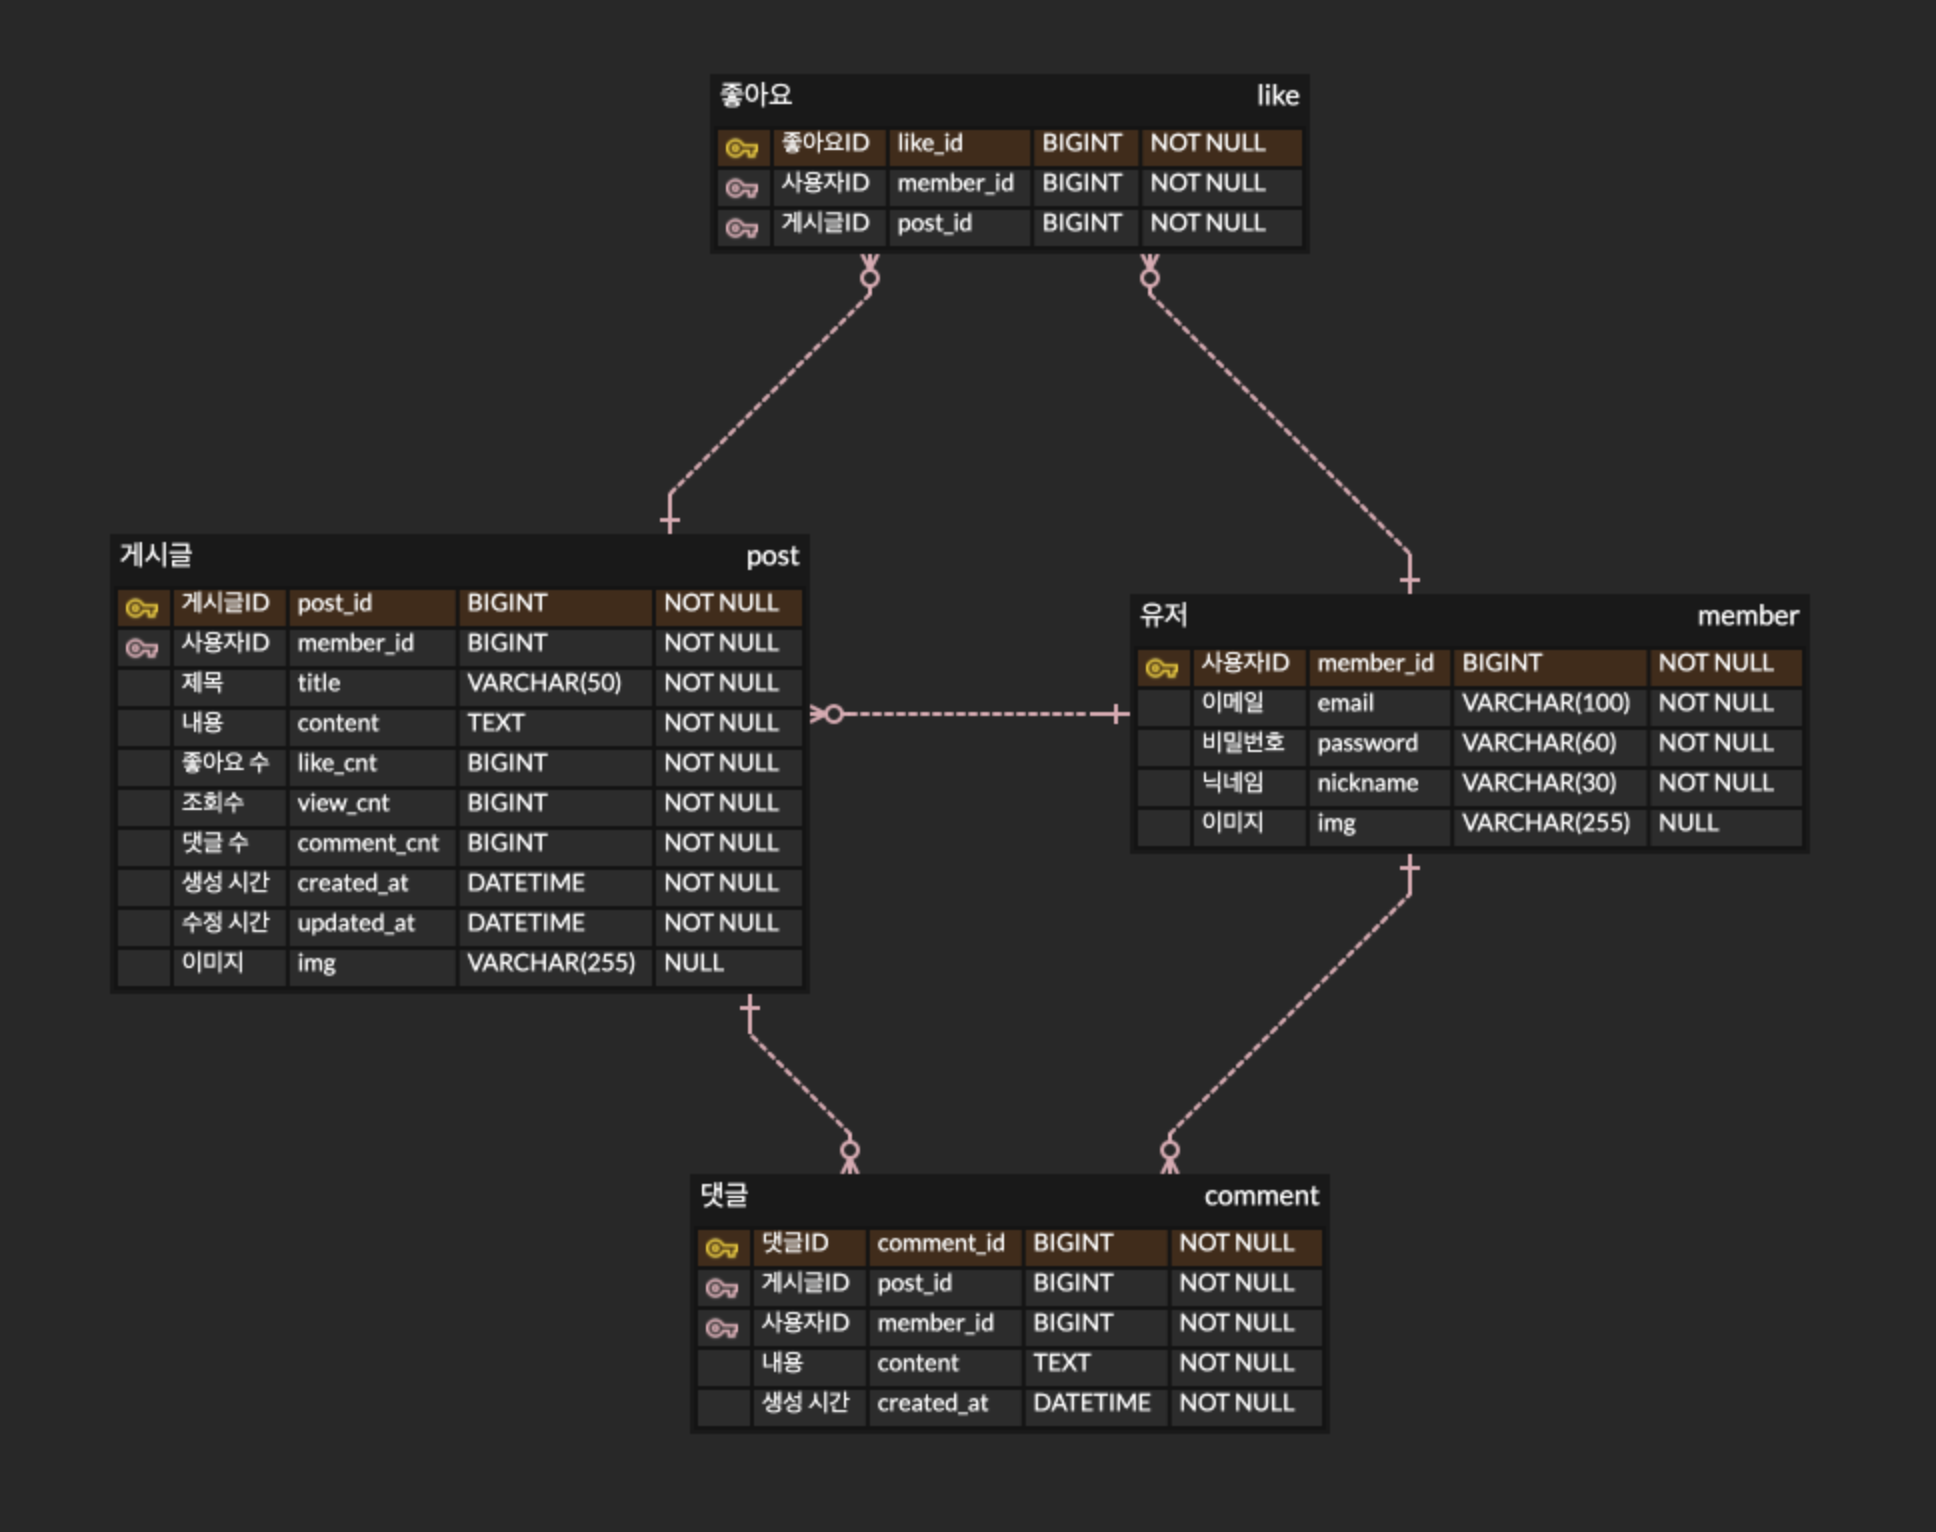
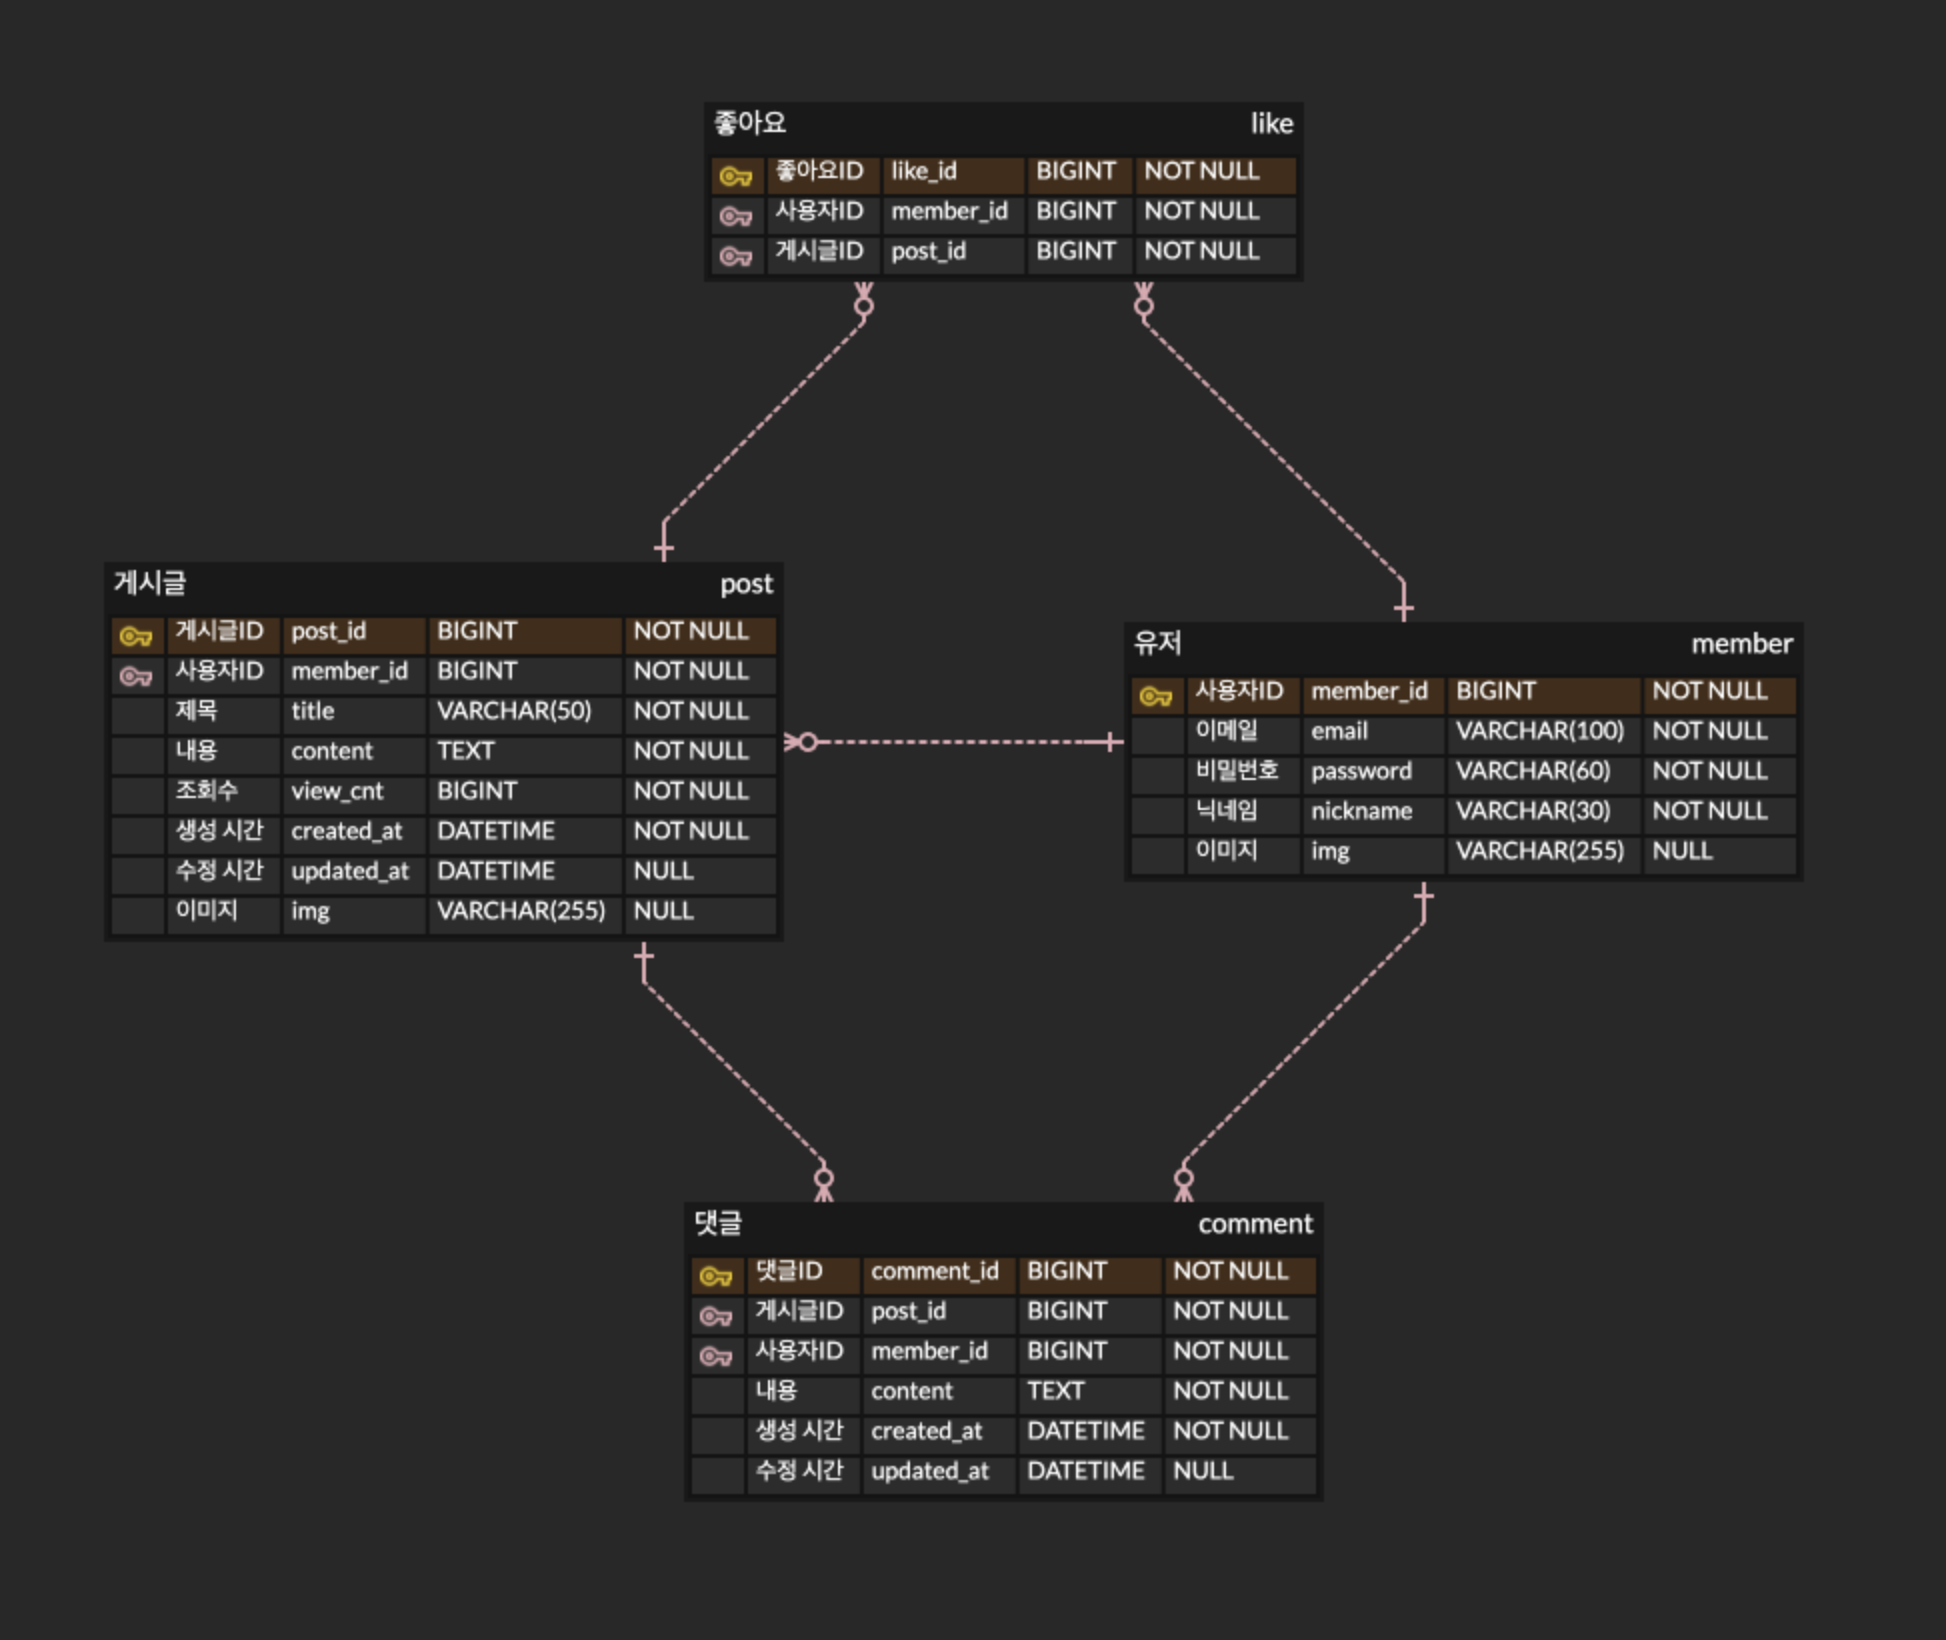
#3 [chore]: refac readme and ERD img

diff --git a/README.md b/README.md
@@ -1,3 +1,191 @@
 # 2-edwin-kwon-community-be
 
+## 🛠 Stack
+
+<div style="display:flex;gap:30px;flex-wrap:wrap;">
+    <img src="https://img.shields.io/badge/-Node.js-339933?style=flat&logo=nodedotjs&logoColor=white"/>
+    <img src="https://img.shields.io/badge/-Amazon RDS-527FFF?style=flat&logo=amazonrds&logoColor=white"/>
+    <img src="https://img.shields.io/badge/Express-000000?style=flat-square&logo=Express&logoColor=white"/>
+    <img src="https://img.shields.io/badge/MariaDB-003545?style=flat-square&logo=mariaDB&logoColor=white"/>
+</div>
+
+<br />
+
+## 📝 Description
+
+게시판 기능을 제공하는 서버입니다. Express.js와 MariaDB를 기반으로 구현되었으며, 사용자 인증, 게시글 관리, 댓글, 좋아요 등 다양한 기능을 제공합니다.
+
+## 👨💻 Developer
+
+<div align=center>
+
+|                                                           Edwin.kwon (권기현)                                                          |
+| :------------------------------------------------------------------------------------------------------------------------: |
+| <a href="https://github.com/ghyen"> <img src="https://avatars.githubusercontent.com/ghyen" width=100px alt="_"/></a> |
+
+</div>
+
+<br />
+
+## ⚙ Installation
+Step-by-step instructions on how to install and set up the project. Include prerequisites or dependencies.
+1. clone repo
+```bash
+git clone https://github.com/100-hours-a-week/2-edwin-kwon-community-be.git
+```
+
+2. install dependencies
+```bash
+npm install
+```
+
+3. set env
+
+make `.env` file and set env like:
+```env
+# Server
+PORT=
+NODE_ENV=
+HOST=
+
+# DB
+DATABASE_URL=
+DB_PORT=
+DB_HOST=
+DB_USER=
+DB_PASSWORD=
+DB_NAME=
+
+# URL
+API_BASE_URL=
+FRONTEND_URL=
+```
+
+4. run server
+```bash
+npm start
+```
+## 👀 Usage
+<!-- ![usgae video](soon) -->
+
+<br />
+
+## 📁 Packages
+```bash
+.
+├── Dockerfile
+├── ERD.png
+├── README.md
+├── eslint.config.js
+├── init.sql
+├── package-lock.json
+├── package.json
+├── prettier.config.js
+├── public
+│   └── uploads
+│       ├── posts
+│       └── profiles
+│           └── default.jpg
+└── src
+    ├── app.js
+    ├── config
+    │   └── session.js
+    ├── controllers
+    │   ├── commentController.js
+    │   ├── controller.js
+    │   ├── postController.js
+    │   └── userController.js
+    ├── middleware
+    │   ├── auth.js
+    │   ├── dbConnection.js
+    │   ├── passwordPolicy.js
+    │   ├── rateLimitMiddleware.js
+    │   ├── securityMiddleware.js
+    │   ├── timeoutMiddleware.js
+    │   └── uploadMiddleware.js
+    ├── models
+    │   ├── commentModel.js
+    │   ├── likeModel.js
+    │   ├── postModel.js
+    │   └── userModel.js
+    └── routes
+        └── route.js
+```
+<br />
+
+## 📊 ERD
 ![ERD](./ERD.png)
+
+## ✨ Feature
+- **Backend**
+  - Node.js
+  - Express.js
+
+- **Database**
+  - MariaDB
+
+- **Auth**
+  - express-session
+  - bcrypt (soon)
+
+- **file handling**
+  - Multer
+
+## 🌟 Main Features
+- **User**
+  - Sign up/Login/Logout
+  - Profile image upload
+  - Nickname update
+  - Password change
+  - Account deletion
+
+- **Post**
+  - Post CRUD operations
+  - Image upload
+  - View count management
+
+- **Comment**
+  - Comment CRUD operations
+  - Author information display
+
+- **Like**
+  - Post like/unlike
+  - Like status check
+
+## 🔗 API Endpoints
+
+### 🔐 Authentication & User
+- `GET /users/profile` - Get user profile (Auth required)
+- `GET /users/:userId` - Get specific user information
+- `GET /auth/check-nickname` - Check nickname availability
+- `GET /auth/check-email` - Check email availability
+- `POST /auth/signup` - Sign up (Profile upload & Password validation)
+- `POST /auth/login` - Login (Password validation)
+- `GET /auth/img` - Get profile image (Auth required)
+- `POST /auth/logout` - Logout (Auth required)
+- `PUT /users/password` - Update password (Auth & Password validation required)
+- `DELETE /users` - Delete user account (Auth required)
+- `PUT /users` - Update user profile (Auth & Profile upload required)
+
+### 📝 Posts
+- `GET /posts` - Get all posts
+- `POST /posts` - Create new post (Auth & Post upload required)
+- `GET /posts/:postid` - Get specific post
+- `DELETE /posts/:postid` - Delete post (Auth required)
+- `PUT /posts/:postid` - Update post (Auth required)
+- `GET /posts/:postid/like` - Get post likes
+- `POST /posts/:postid/like` - Like post (Auth required)
+- `DELETE /posts/:postid/like` - Unlike post (Auth required)
+
+### 💬 Comments
+- `GET /posts/:postid/comments` - Get all comments for a post
+- `POST /posts/:postid/comments` - Create comment (Auth required)
+- `PUT /posts/:postid/comments/:commentid` - Update comment (Auth required)
+- `DELETE /posts/:postid/comments/:commentid` - Delete comment (Auth required)
+
+### 🧪 Test Endpoints
+- `GET /slow` - Test slow response
+- `POST /test` - Test POST request
+- `PUT /test` - Test PUT request
+- `PATCH /test` - Test PATCH request
+- `GET /user-nickname/:userid` - Get user nickname by ID
